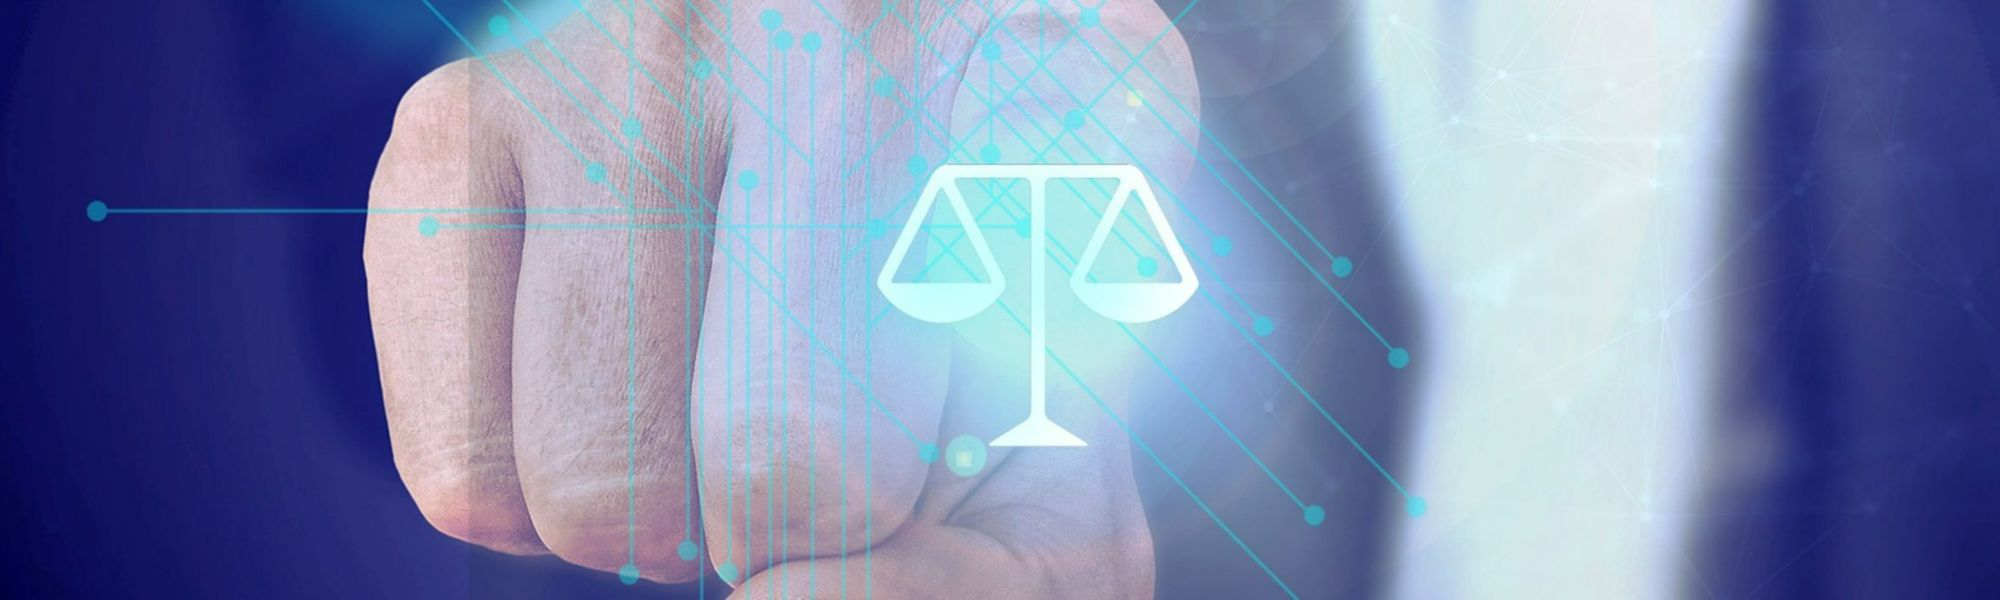
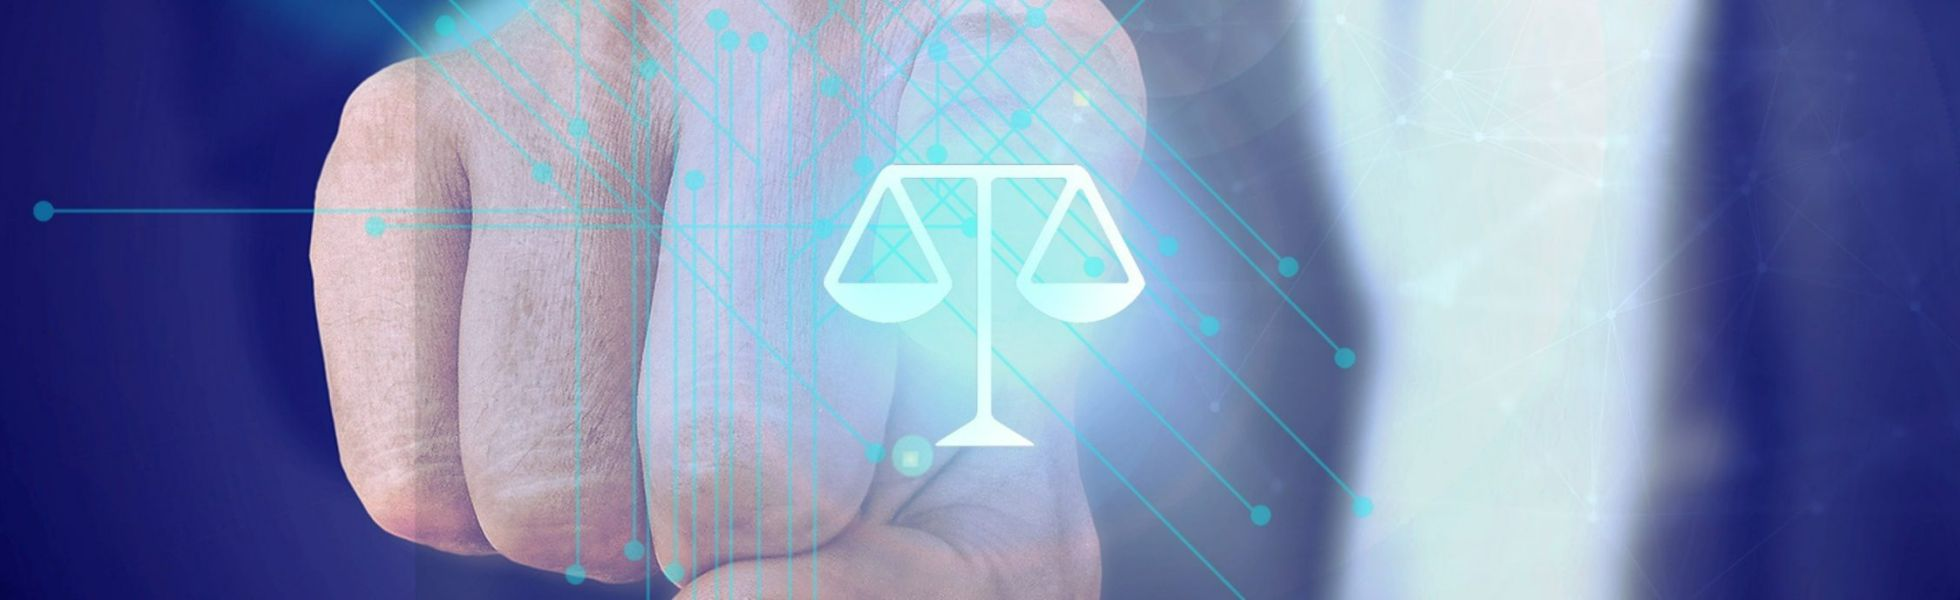
Resize and change main image

diff --git a/assets/css/style.css b/assets/css/style.css
@@ -340,7 +340,7 @@ footer {
 }
 
 .second-cover-bg {
-    background: url('../images/co-founder-second.png') no-repeat top center;
+    background: url('../images/co-founder-second.jpg') no-repeat top center;
     height: 100%;
     border-radius: 50%;
 }
